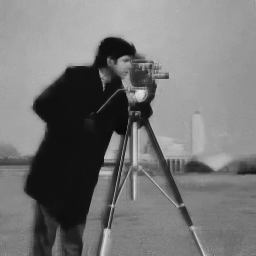
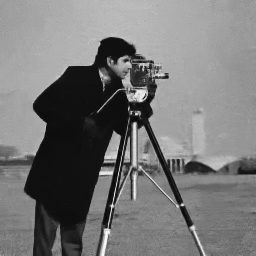
first step seems working

diff --git a/bm3d_1st_step.py b/bm3d_1st_step.py
@@ -1,7 +1,7 @@
 import numpy as np
 import cv2
 
-from utils import ind_initialize, get_kaiserWindow, get_coef, sd_weighting
+from utils import ind_initialize, get_kaiserWindow, sd_weighting
 from precompute_BM import precompute_BM
 from bior_2d import bior_2d_forward, bior_2d_reverse
 from image_to_patches import image2patches
@@ -55,13 +55,16 @@ def bm3d_1st_step(sigma, img_noisy, nHard, kHard, NHard, pHard, useSD, tau_2D):
     else:  # 'BIOR'
         group_3D_table = bior_2d_reverse(group_3D_table)
 
-    for i in range(1000):
-        patch = group_3D_table[i]
-        print(i, '----------------------------')
-        print(patch)
-        cv2.imshow('', patch.astype(np.uint8))
-        cv2.waitKey()
-
+    # group_3D_table = np.maximum(group_3D_table, 0)
+    # for i in range(1000):
+    #     patch = group_3D_table[i]
+    #     print(i, '----------------------------')
+    #     print(patch)
+    #     print(np.min(patch))
+    #     print(np.max(patch))
+    #     print(np.sum(patch))
+    #     cv2.imshow('', patch.astype(np.uint8))
+    #     cv2.waitKey()
 
     group_3D_table *= kaiserWindow
 
@@ -85,3 +88,30 @@ def bm3d_1st_step(sigma, img_noisy, nHard, kHard, NHard, pHard, useSD, tau_2D):
     img_basic= numerator / denominator
     img_basic = img_basic.astype(np.uint8)
     return img_basic
+
+
+if __name__ == '__main__':
+    from utils import add_gaussian_noise, symetrize
+
+    # <hyper parameter> -------------------------------------------------------------------------------
+    sigma = 25
+
+    nHard = 16
+    kHard = 8
+    NHard = 16
+    pHard = 3
+    useSD_h = False
+    tau_2D_hard = 'BIOR'
+
+    # <\ hyper parameter> -----------------------------------------------------------------------------
+
+    img = cv2.imread('Cameraman256.png', cv2.IMREAD_GRAYSCALE)
+    # img = cv2.resize(img, (128, 128))
+    img_noisy = add_gaussian_noise(img, sigma)
+    # img_noisy = cv2.imread('matlab_official_result/noisy_image.png', cv2.IMREAD_GRAYSCALE)
+
+    img_noisy_p = symetrize(img_noisy, nHard)
+    img_basic = bm3d_1st_step(sigma, img_noisy_p, nHard, kHard, NHard, pHard, useSD_h, tau_2D_hard)
+    img_basic = img_basic[nHard: -nHard, nHard: -nHard]
+
+    cv2.imwrite('img_basic.png', img_basic)

diff --git a/01_run_bm3d.py b/01_run_bm3d.py
@@ -7,8 +7,8 @@ from bm3d_2nd_step import bm3d_2nd_step
 # <hyper parameter> -------------------------------------------------------------------------------
 sigma = 25
 
-nHard = 40
-kHard = 32
+nHard = 16
+kHard = 8
 NHard = 16
 pHard = 3
 useSD_h = False
@@ -24,7 +24,7 @@ tau_2D_wien = 'DCT'
 
 
 img = cv2.imread('Cameraman256.png', cv2.IMREAD_GRAYSCALE)
-img = cv2.resize(img, (128, 128))
+# img = cv2.resize(img, (128, 128))
 img_noisy = add_gaussian_noise(img, sigma)
 # img_noisy = cv2.imread('matlab_official_result/noisy_image.png', cv2.IMREAD_GRAYSCALE)
 

diff --git a/ht_filtering_hadamard.py b/ht_filtering_hadamard.py
@@ -13,7 +13,7 @@ def ht_filtering_hadamard(group_3D, sigma, lambdaHard3D, doWeight):  # group_3D 
     T = lambdaHard3D * sigma * coef_norm
     T_3D = np.where(np.abs(group_3D_h) > T, 1, 0)
     weight = np.sum(T_3D)
-    group_3D_h = np.where(group_3D_h > T, group_3D_h, 0)
+    group_3D_h = np.where(np.abs(group_3D_h) > T, group_3D_h, 0.)
 
     group_3D = hadamard_transform(group_3D_h)
 
